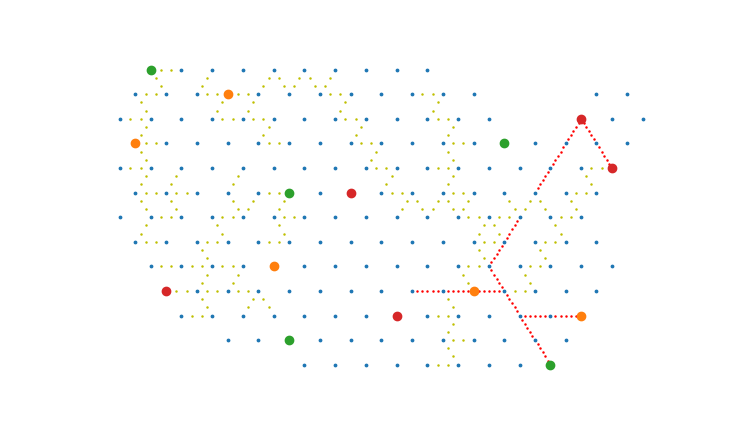
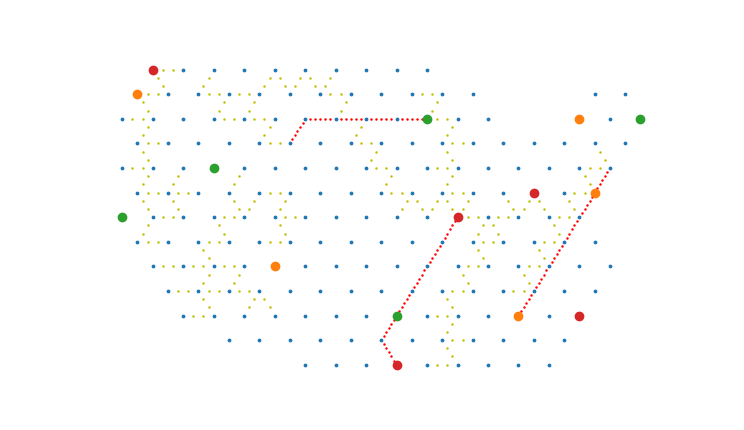
Successfully implemented efficiency improvements.

diff --git a/game_manager.py b/game_manager.py
@@ -16,7 +16,9 @@ class GameManager:
         self.deck_manager = DeckManager()
         with open('game-board.p', 'rb') as f:
             self.board = pickle.load(f)
-        self.game = Game(self.player_list, self.board)
+        with open('board_nodes_only.p', 'rb') as f:
+            self.board_track_only = pickle.load(f)
+        self.game = Game(self.player_list, self.board, self.board_track_only)
         logging.basicConfig(filename='log.txt',
                             filemode='w',
                             # format='%(asctime)s,%(msecs)d %(name)s %(levelname)s %(message)s',
@@ -45,9 +47,7 @@ class GameManager:
                     break
                 edges_to_place = player.decide_edge_placement(self.game)
                 self.logger.debug(f'Player {player}: round {self.game.round_counter}, places edges {edges_to_place}.')
-                for edge in edges_to_place:
-                    # print(edge)
-                    self.board[edge[0]][edge[1]]['weight'] = 0
+                # self.game.lay_track(edges_to_place)
                 if player.is_done(self.game):
                     self.logger.info(f'Player {player}: round {self.game.round_counter}, finished all objectives!')
                     done = True
@@ -67,14 +67,6 @@ class GameManager:
             scores_dict[player.id] = self.game.get_remaining_distance(player.home_node, player.objectives)
         return scores_dict
 
-    # Below this line is all for drawing images
-    def get_track_edges(self):
-        output = []
-        for edge in self.board.edges():
-            if self.board[edge[0]][edge[1]]['weight'] == 0:
-                output.append(edge)
-        return output
-
     def plot(self, title=None):
         # TODO CAN OPIMIZE THIS SO THAT ONLY DIFFS ARE ADDED TO THE IMAGE - much faster
         plt.figure(figsize=(7.44, 4.3))
@@ -82,7 +74,7 @@ class GameManager:
         for edge in self.board.edges():
             if self.board[edge[0]][edge[1]]['weight'] == 2:
                 self.draw_edge(edge, dots - 3, 'y')
-        edges = self.get_track_edges()
+        edges = self.board_track_only.edges()
         for edge in edges:
             self.draw_edge(edge, dots, 'r')
         nodes = self.board.nodes()
@@ -105,7 +97,7 @@ class GameManager:
 if __name__ == '__main__':
     start_time = time.time()
     scores_dict = {'A': 0, 'B': 0, 'C': 0}
-    for _ in range(100):
+    for _ in range(10000):
         gm = GameManager()
         scores = gm.play()
         for key in scores_dict:

diff --git a/player.py b/player.py
@@ -23,10 +23,11 @@ class BasePlayer:
 
     def decide_starting_node(self, game):
         self.home_node = random.choice(self.objectives)
+        self.update_target_order(game) # TEMPORARY
         return self.home_node
 
     def decide_edge_placement(self, game):
-        self.update_target_order(game)
+        # self.update_target_order(game)
         track_to_place = []
         track_weight = 0
         for target in self.target_order:
@@ -36,6 +37,7 @@ class BasePlayer:
                 if track_weight + edge_weights[i] <= 2:
                     track_to_place.append(edge)
                     track_weight += edge_weights[i]
+                    game.lay_track([edge])
                 else:
                     break
             if track_weight == 2:
@@ -51,7 +53,7 @@ class BasePlayer:
 
     def is_done(self, game):
         for objective in self.remaining_objectives:
-            if nx.astar_path_length(game.board, self.home_node, objective) == 0:
+            if nx.has_path(game.board_track_only, self.home_node, objective):
                 self.remaining_objectives.remove(objective)
         if len(self.remaining_objectives) == 0:
             return True

diff --git a/game.py b/game.py
@@ -4,10 +4,17 @@ import copy
 
 class Game:
 
-    def __init__(self, player_list, board):
+    def __init__(self, player_list, board, board_track_only):
         self.player_list = player_list
         self.board = board
+        self.board_track_only = board_track_only
         self.round_counter = 0
+
+    def lay_track(self, edge_list):
+        for edge in edge_list:
+            self.board[edge[0]][edge[1]]['weight'] = 0
+            self.board_track_only.add_edge(edge[0], edge[1])
+
 
     def get_remaining_distance(self, home_node, objective_nodes):
         # THE IDEA HERE: get the closest remaining objective, lay track to it, get the next closest, lay track to it,

diff --git a/board_maker.py b/board_maker.py
@@ -68,6 +68,11 @@ remove_nodes = [
     (19, 8)
 ]
 board.remove_nodes_from(remove_nodes)
+board_nodes_only = board.copy()
+board_nodes_only.remove_edges_from(board.edges())
+
+with open('board_nodes_only.p', 'wb') as f:
+    pickle.dump(board_nodes_only, f)
 
 # terrain
 double_edges = [
